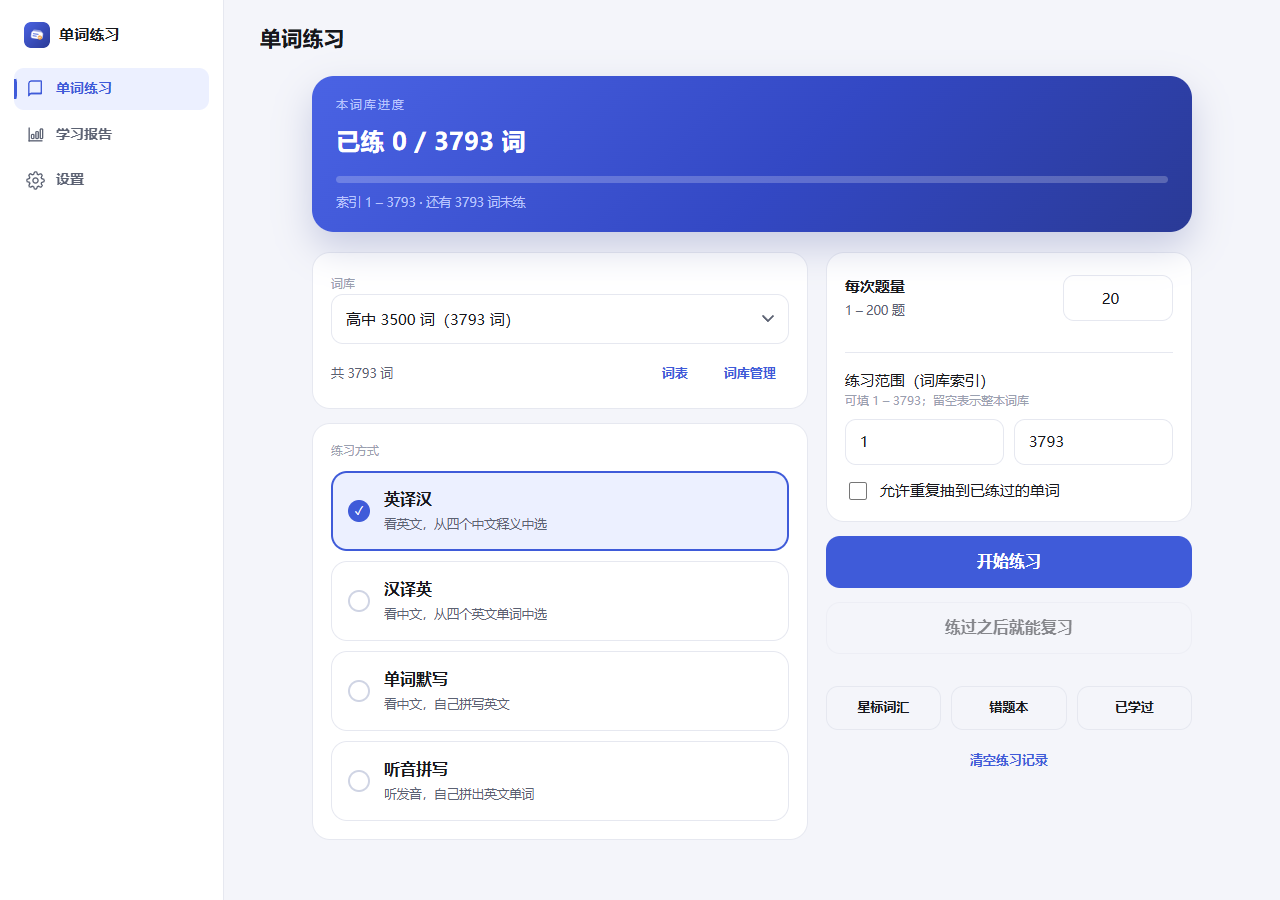
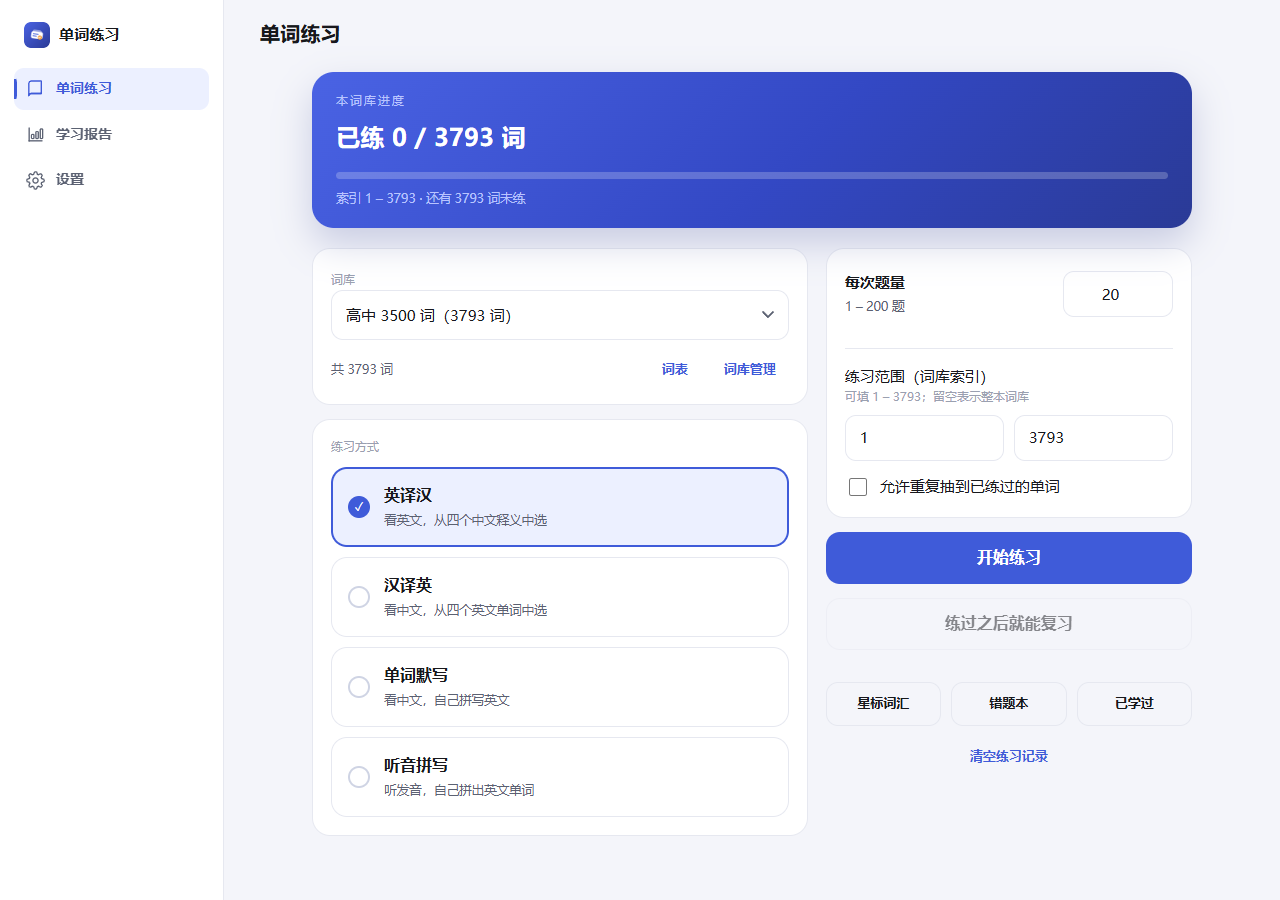
文本内容优化

diff --git a/public/app.js b/public/app.js
@@ -205,10 +205,10 @@ function installTipHtml() {
     </div>`;
 }
 
-function pageHead(title, extra = '') {
+function pageHead(title, extra = '', backHash = '#/', navPage = false) {
   return `
-    <div class="page-head">
-      <button class="icon-btn" data-action="home" title="返回首页">←</button>
+    <div class="page-head"${navPage ? ' data-navpage' : ''}>
+      <button class="icon-btn" data-action="back" data-back="${backHash}" title="返回">←</button>
       <h2>${esc(title)}</h2>
       <div class="grow"></div>
       ${extra}
@@ -1163,7 +1163,7 @@ async function renderImport() {
 |---|---|---|
 | competence | n. | 能力；胜任 |
 | abandon | v. | 抛弃，舍弃 |</pre>
-        <div class="import-tip-note">三列即可；没有词性就留空成两列。序号列可留可不留。</div>
+        <div class="import-tip-note">三列即可；没有词性就在词性处留空。序号列可留可不留。</div>
       </div>
       <div class="card">
         <label class="hint" for="nameInput">词库名称</label>
@@ -1341,7 +1341,7 @@ async function renderReport() {
 
   app.innerHTML = `
     <div class="center-col wide report-page">
-      ${pageHead('学习报告', '<button class="btn small ghost" data-action="set-goal">调整目标</button>')}
+      ${pageHead('学习报告', '<button class="btn small ghost" data-action="set-goal">调整目标</button>', '#/', true)}
 
       <div class="report-grid">
         <section class="report-tile span-2">
@@ -1463,7 +1463,7 @@ async function renderSettings() {
   const pref = themePref();
   app.innerHTML = `
     <div class="center-col wide settings-page">
-      ${pageHead('设置')}
+      ${pageHead('设置', '', '#/', true)}
 
       <div class="settings-grid">
         <section class="settings-tile">
@@ -1682,7 +1682,7 @@ async function renderPrivacy() {
   }
   app.innerHTML = `
     <div class="center-col">
-      ${pageHead('隐私政策')}
+      ${pageHead('隐私政策', '', '#/settings')}
       <div class="card">
         <div class="prose">${text ? esc(text) : '隐私政策加载失败，请联网刷新后再试。'}</div>
       </div>
@@ -1945,6 +1945,9 @@ app.addEventListener('click', async (event) => {
   switch (action) {
     case 'home':
       location.hash = '#/';
+      break;
+    case 'back':
+      location.hash = target.dataset.back || '#/';
       break;
     case 'about':
       showAbout();
@@ -2302,6 +2305,7 @@ boot().catch((err) => {
     <h2>启动失败</h2><p>${esc(err.message)}</p>
     <p class="hint">确认浏览器允许本地存储后刷新重试。</p></div>`;
 });
+
 
 
 

diff --git a/public/style.css b/public/style.css
@@ -1401,3 +1401,34 @@ button, .mode, .opt, .word-row, .drop { -webkit-tap-highlight-color: transparent
 @media (prefers-reduced-motion: reduce) {
   .nav-item, .nav-icon, .nav-glow, .nav-item::before { animation: none; transition: none; }
 }
+
+/* ---------- 标题字号统一：单词练习 / 学习报告 / 设置 ---------- */
+
+.topbar h1,
+.page-head h2 {
+  font-size: 20px;
+  font-weight: 700;
+  line-height: 1.2;
+  letter-spacing: 0.2px;
+}
+
+/* 三个主页面标题行高度与下边距一致，切换到哪页都不跳动。
+   要压过前面 .settings-page / .report-page 各自的 56px */
+.topbar,
+.page-head,
+.settings-page .page-head,
+.report-page .page-head {
+  height: 68px;
+  margin: 0 0 4px;
+}
+
+/* 桌面端有侧边导航，学习报告与设置不需要返回键 */
+@media (min-width: 901px) {
+  .page-head[data-navpage] .icon-btn[data-action="back"] { display: none; }
+}
+
+/* 标题统一后报告页在 1440x800 超了一点，从正文里收，不动标题 */
+.report-page .report-grid { gap: 8px 18px; }
+.report-page .card.report-card { padding: 9px 18px; }
+.report-page .chart { height: 54px; }
+
